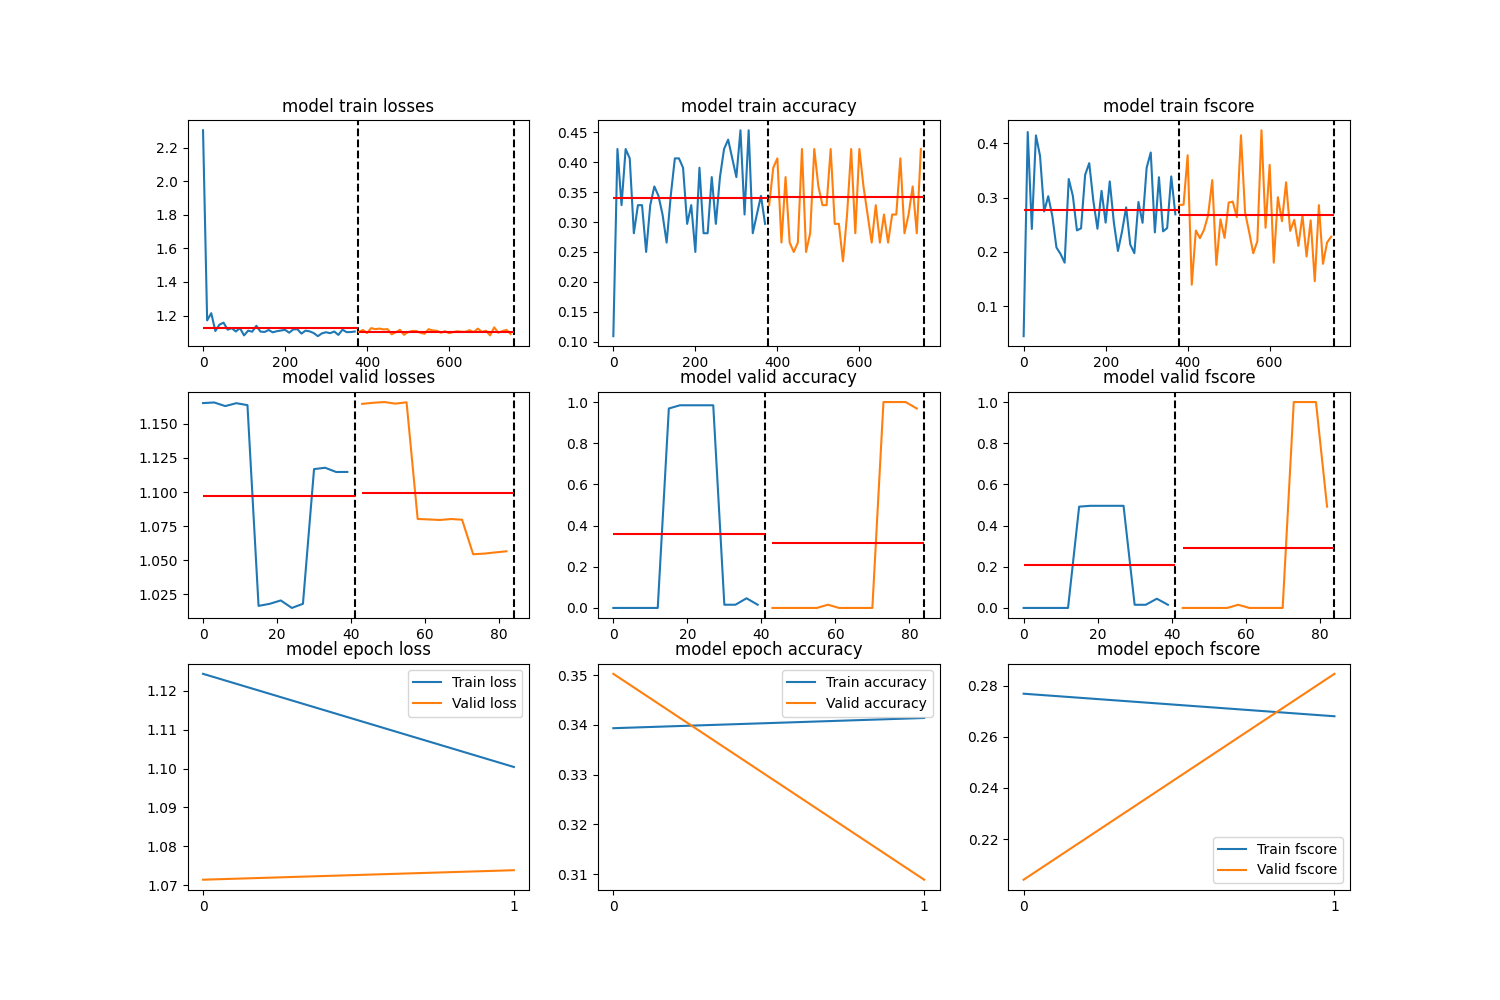
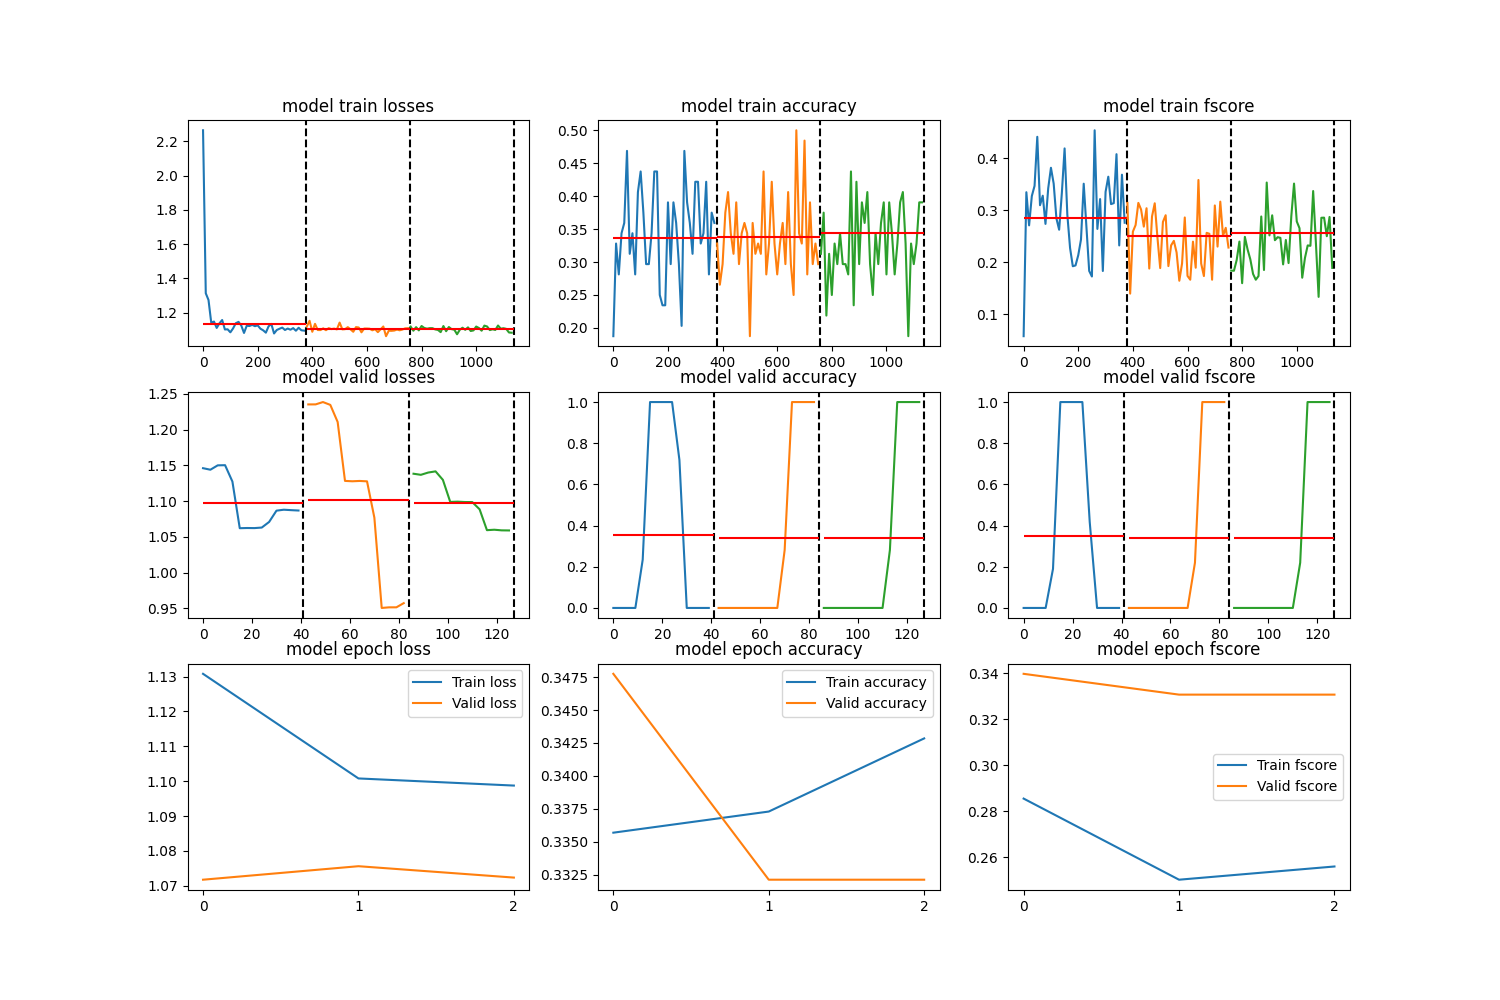
Добавил парочку изменений к модели.

diff --git a/models/simple_cnn.py b/models/simple_cnn.py
@@ -5,19 +5,37 @@ class CNN(nn.Module):
     def __init__(self):
         super().__init__()
         self.seq1 = nn.Sequential(
-            nn.Conv2d(in_channels=1, out_channels=32, kernel_size=3, stride=1),
-            nn.BatchNorm2d(32),
+            nn.Conv2d(in_channels=1, out_channels=8, kernel_size=3, stride=1),
+            nn.BatchNorm2d(8),
             nn.MaxPool2d(2),
             nn.ReLU()
         )
         self.seq2 = nn.Sequential(
+            nn.Conv2d(8, 16, 3, 1),
+            nn.BatchNorm2d(16),
+            nn.MaxPool2d(2),
+            nn.ReLU()
+        )
+        self.seq3 = nn.Sequential(
+            nn.Conv2d(16, 32, 3, 1),
+            nn.BatchNorm2d(32),
+            nn.MaxPool2d(2),
+            nn.ReLU()
+        )
+        self.seq4 = nn.Sequential(
             nn.Conv2d(32, 64, 3, 1),
             nn.BatchNorm2d(64),
             nn.MaxPool2d(2),
             nn.ReLU()
         )
-        self.seq3 = nn.Sequential(
-            nn.Linear(64 * 5 * 5, 512),
+        self.seq5 = nn.Sequential(
+            nn.Conv2d(64, 64, 3, 1),
+            nn.BatchNorm2d(64),
+            nn.MaxPool2d(2),
+            nn.ReLU()
+        )
+        self.seq6 = nn.Sequential(
+            nn.Linear(2304, 512),
             nn.ReLU(),
             nn.Dropout(0.2),
             nn.Linear(512, 128),
@@ -28,9 +46,17 @@ class CNN(nn.Module):
         )
     
     def forward(self, x):
-        x = self.seq2(self.seq1(x))
+        x = self.seq5(
+                self.seq4(
+                    self.seq3(
+                        self.seq2(
+                            self.seq1(x)
+                        )
+                    )
+                )
+            )
         x = x.view(x.size(0), -1)
-        x = self.seq3(x)
+        x = self.seq6(x)
         return x
 
 # class FullyConnectedModel(nn.Module):

diff --git a/core/preprocessing.py b/core/preprocessing.py
@@ -5,7 +5,7 @@ from torchvision import datasets
 
 def preprocessing_dataset(train_path="train_data", test_path="test_data"):
     transform_list = transforms.Compose([
-        transforms.Resize(28),
+#        transforms.Resize(28),
         transforms.ToTensor(),
         transforms.Grayscale()
     ])
